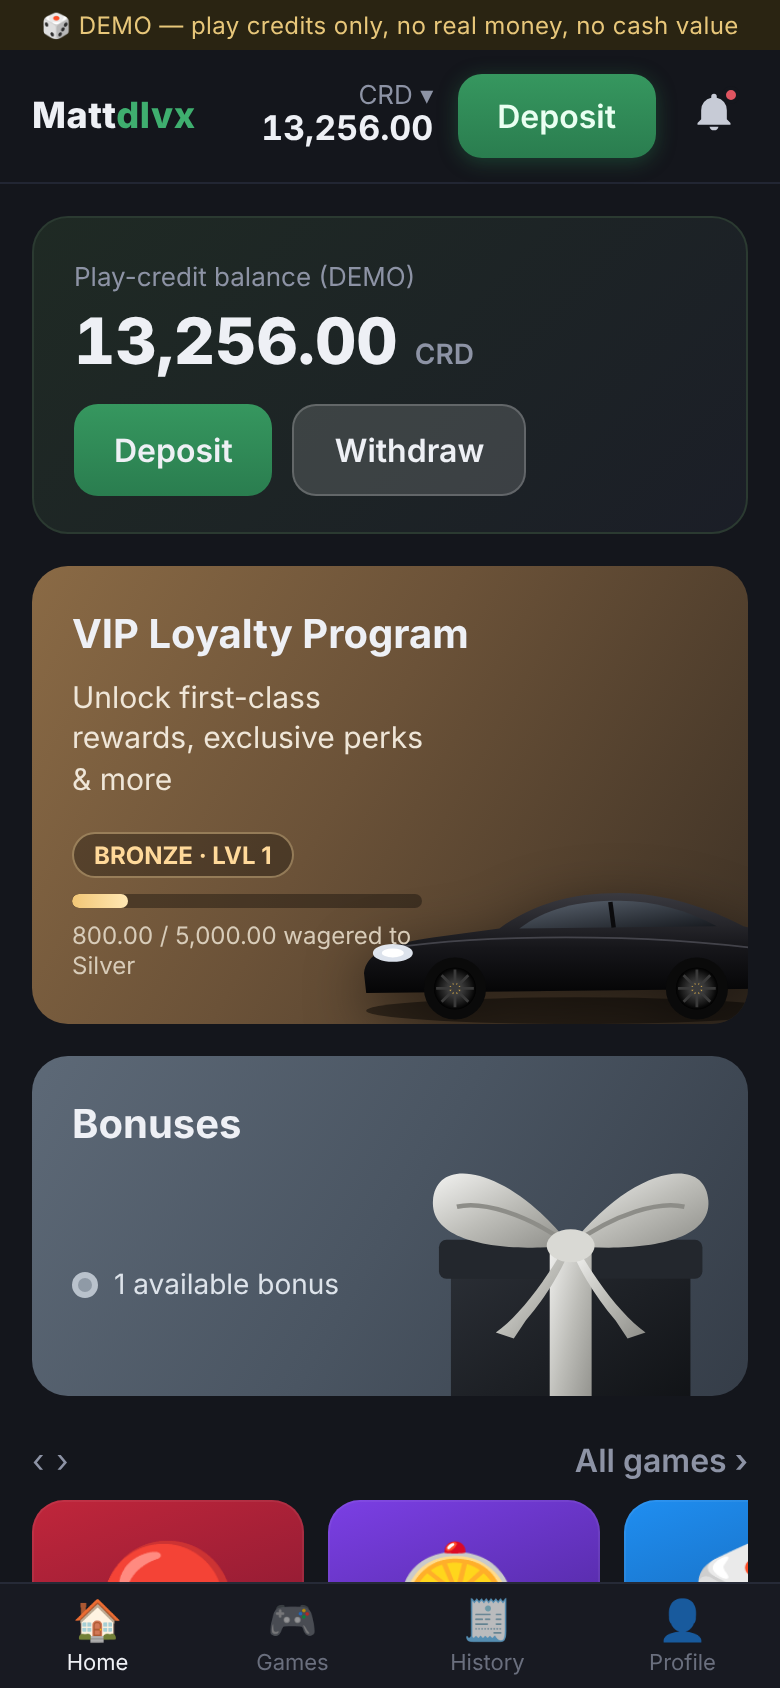
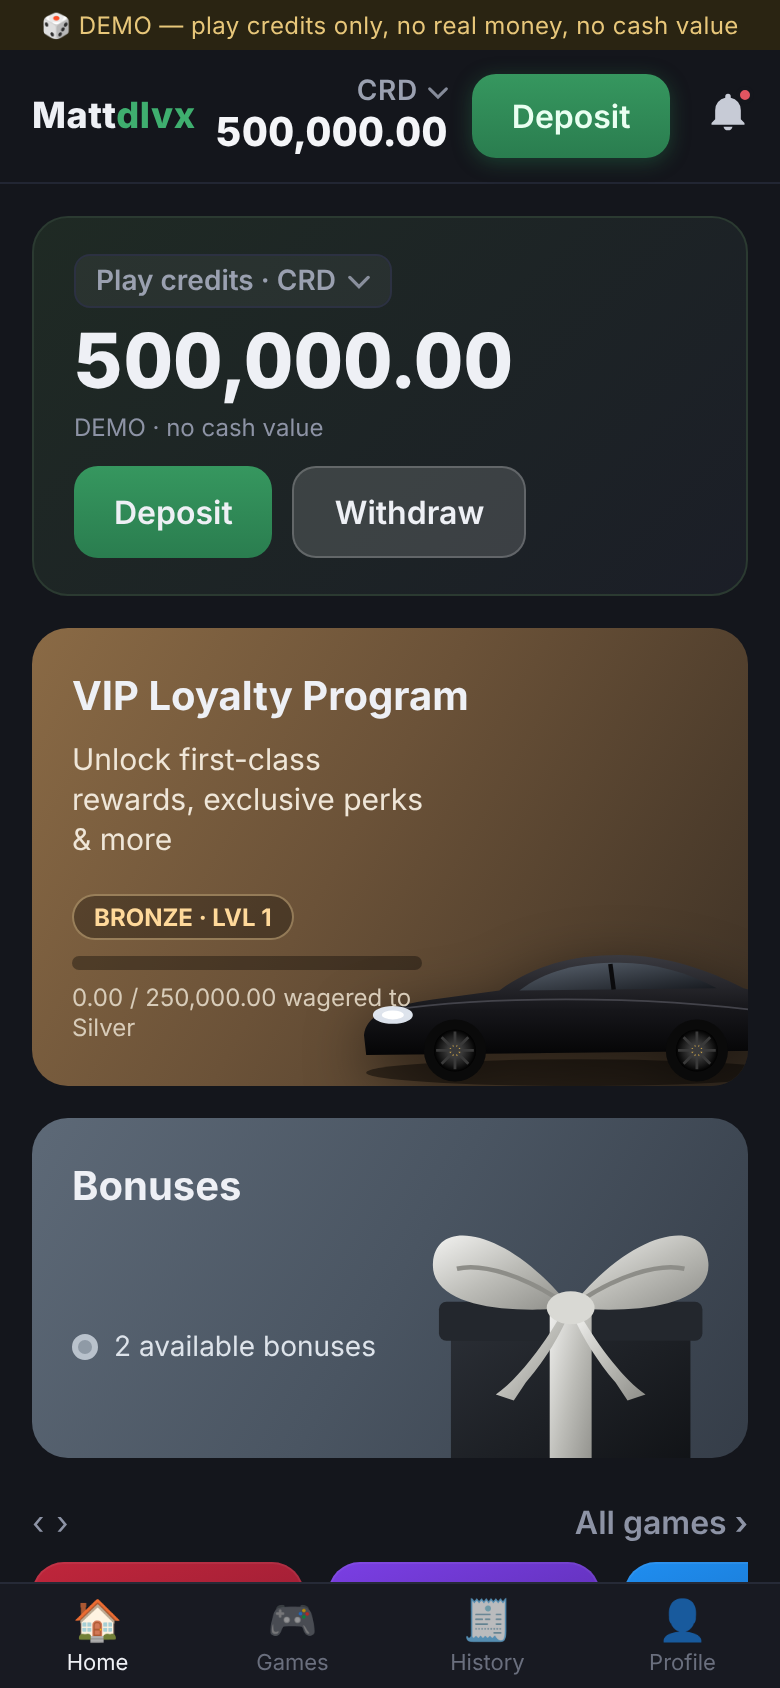
Start with 500,000 play credits, scale limits, restyle CRD balance display

diff --git a/app.js b/app.js
@@ -65,7 +65,7 @@ function authView() {
   let mode = 'signup';
   app.innerHTML = `<div class="auth">
     <h1>Matt<span>dlvx</span></h1>
-    <p class="sub">A play-money casino demo. New players get 10,000 free credits.<br>Credits have no cash value. Accounts are stored only in this browser.</p>
+    <p class="sub">A play-money casino demo. New players get 500,000 free play credits.<br>Credits have no cash value. Accounts are stored only in this browser.</p>
     <div class="panel">
       <div class="tabs"><button data-m="signup" class="on">Sign up</button><button data-m="login">Log in</button></div>
       <form id="authForm">
@@ -91,7 +91,7 @@ function homeView() {
   const v = me.vip;
   app.innerHTML = `
   <section class="balance-card">
-    <div><span class="muted">Play-credit balance (DEMO)</span><div class="big-bal">${fmt(me.balance)} <small>CRD</small></div></div>
+    <div><button class="cur-select" id="balCur" type="button">Play credits · CRD <svg class="caret" viewBox="0 0 12 8" width="11" height="8"><path d="M1 1.5l5 5 5-5" stroke="currentColor" stroke-width="1.8" fill="none" stroke-linecap="round"/></svg></button><div class="big-bal">${fmt(me.balance)}</div><div class="muted demo-note">DEMO · no cash value</div></div>
     <div class="bal-actions"><button class="btn btn-green" id="homeDeposit">Deposit</button><button class="btn btn-light" id="homeWithdraw">Withdraw</button></div>
   </section>
   <section class="card vip">
@@ -115,6 +115,7 @@ function homeView() {
   $('#bonusCard').onclick = openBonuses;
   $('#homeDeposit').onclick = openDeposit;
   $('#homeWithdraw').onclick = openWithdraw;
+  $('#balCur').onclick = () => toast('Play credits (CRD) only — no real currencies in this demo.');
   const c = $('#carousel');
   $('#cl').onclick = () => c.scrollBy({ left: -150, behavior: 'smooth' });
   $('#cr').onclick = () => c.scrollBy({ left: 150, behavior: 'smooth' });
@@ -137,9 +138,9 @@ async function openBonuses() {
 
 function openDeposit() {
   openModal(`<h2>Add play credits</h2>
-    <p class="muted">Free demo top-up — no payment, no real money. Limit: 5,000 credits per 24 hours. Remaining today: <b>${fmt(me.depositRemaining)}</b></p>
-    <div class="quick" style="margin-top:14px">${[500, 1000, 2500, 5000].map(a => `<button data-amt="${a}">+${a}</button>`).join('')}</div>
-    <label>Amount</label><input id="depAmt" type="number" min="1" value="1000">
+    <p class="muted">Free demo top-up — no payment, no real money. Limit: 250,000 credits per 24 hours. Remaining today: <b>${fmt(me.depositRemaining)}</b></p>
+    <div class="quick" style="margin-top:14px">${[25000, 50000, 100000, 250000].map(a => `<button data-amt="${a}">+${a / 1000}k</button>`).join('')}</div>
+    <label>Amount</label><input id="depAmt" type="number" min="1" value="50000">
     <button class="btn btn-green play-btn" id="depGo">Add credits</button><div class="err" id="depErr"></div>
     <button class="btn" data-close style="width:100%;margin-top:6px">Cancel</button>`);
   $('#modalCard').querySelectorAll('[data-amt]').forEach(b => b.onclick = () => $('#depAmt').value = b.dataset.amt);
@@ -153,7 +154,7 @@ function openWithdraw() {
   openModal(`<h2>Withdraw play credits</h2>
     <p class="muted">This only removes play credits from your demo balance. <b>Play credits have no cash value</b> — nothing is paid out and no payment details are ever needed.</p>
     <p style="margin-top:10px">Available: <b>${fmt(me.balance)} CRD</b></p>
-    <label>Amount (credits, min 1)</label><input id="wdAmt" type="number" min="1" step="1" value="${Math.min(100, Math.floor(me.balance))}">
+    <label>Amount (credits, min 1)</label><input id="wdAmt" type="number" min="1" step="1" value="${Math.min(1000, Math.floor(me.balance))}">
     <button class="btn btn-light play-btn" id="wdGo">Withdraw credits</button><div class="err" id="wdErr"></div>
     <button class="btn" data-close style="width:100%;margin-top:6px">Cancel</button>`);
   $('#wdGo').onclick = async () => {
@@ -166,7 +167,7 @@ function openWithdraw() {
 }
 
 function betControls(extra = '') {
-  return `<label>Bet amount (credits)</label><input id="betAmt" type="number" min="${config.minBet}" max="${config.maxBet}" step="1" value="10">
+  return `<label>Bet amount (credits)</label><input id="betAmt" type="number" min="${config.minBet}" max="${config.maxBet}" step="1" value="1000">
   <div class="quick"><button data-q="half">½</button><button data-q="double">2×</button><button data-q="min">Min</button><button data-q="max">Max</button></div>${extra}`;
 }
 function wireQuick() {
@@ -327,7 +328,7 @@ function profileView() {
       <div class="stat"><span>Net result</span><b class="${s.won - s.wagered >= 0 ? 'pos' : 'neg'}">${fmt(s.won - s.wagered)}</b></div>
     </div>
     <div class="panel"><b>VIP progress</b><div class="bar" style="background:#11131a"><i style="width:${(v.progress * 100).toFixed(1)}%"></i></div><p class="muted" style="margin-top:6px">${v.next ? `${fmt(v.nextAt - v.totalWagered)} more credits wagered to reach ${v.next}` : 'Top tier reached'}</p>
-    <p class="muted" style="margin-top:6px">Tiers: Bronze 0 · Silver 5k · Gold 25k · Platinum 100k · Diamond 500k</p></div>
+    <p class="muted" style="margin-top:6px">Tiers: Bronze 0 · Silver 250k · Gold 1.25M · Platinum 5M · Diamond 25M</p></div>
     <button class="btn" id="logout" style="width:100%;padding:14px">Log out</button>
     <p class="legal">Play-money demo. Credits are free, have no cash value and cannot be withdrawn.</p>`;
   $('#logout').onclick = async () => { await api('/logout', {}); me = null; location.hash = '#/login'; route(); };

diff --git a/style.css b/style.css
@@ -10,8 +10,8 @@ button{font:inherit;cursor:pointer;border:0;color:inherit;background:none}
 .logo{font-weight:800;font-size:18px;letter-spacing:.3px}.logo span{color:var(--green2)}
 .wallet{display:flex;align-items:center;gap:12px}
 .currency{display:flex;flex-direction:column;align-items:flex-end;line-height:1.15}
-.cur-label{font-size:13px;color:var(--muted)}
-.bal{font-weight:700;font-size:17px;font-variant-numeric:tabular-nums}
+.cur-label{display:inline-flex;align-items:center;gap:5px;font-size:14px;font-weight:600;color:#9aa0b0;letter-spacing:.3px}
+.bal{font-weight:800;font-size:20px;letter-spacing:.2px;font-variant-numeric:tabular-nums;color:#f4f5f8}
 .btn-deposit{background:linear-gradient(180deg,#36975f,#2a7d4f);padding:11px 20px;border-radius:12px;font-weight:600;color:#e9fff1;box-shadow:0 2px 10px rgba(46,139,87,.35)}
 .btn-deposit:active{transform:scale(.97)}
 .bell{position:relative;color:#c7cbd6;padding:6px}
@@ -88,3 +88,8 @@ canvas{width:100%;display:block;border-radius:12px;background:#0f1117}
 .balance-card{display:flex;justify-content:space-between;align-items:center;gap:12px;flex-wrap:wrap;background:linear-gradient(135deg,#1f2a24,#1b1e27);border:1px solid #2b3a31;border-radius:18px;padding:18px 20px;margin-bottom:16px}
 .big-bal{font-size:32px;font-weight:800;font-variant-numeric:tabular-nums;margin-top:4px}.big-bal small{font-size:14px;color:var(--muted);font-weight:600}
 .bal-actions{display:flex;gap:10px}.bal-actions .btn{padding:12px 20px}
+.cur-select{display:inline-flex;align-items:center;gap:6px;font-size:14px;font-weight:600;color:#9aa0b0;background:rgba(255,255,255,.05);border:1px solid #2c3142;border-radius:8px;padding:4px 10px}
+.caret{opacity:.85}
+.big-bal{font-size:38px;font-weight:800;letter-spacing:.3px;margin-top:8px;line-height:1.05}
+.demo-note{margin-top:4px;font-size:12px}
+@media(max-width:380px){.bal{font-size:17px}.big-bal{font-size:32px}}

diff --git a/local-api.js b/local-api.js
@@ -2,9 +2,9 @@
 // DEMO ONLY: passwords are salted SHA-256 hashed client-side, which is NOT real security.
 // Play credits have no cash value. No real money, payments or payouts exist anywhere.
 (function () {
-  const START_BALANCE = 10000, MIN_BET = 1, MAX_BET = 5000, DAILY_DEPOSIT_LIMIT = 5000;
-  const WELCOME_BONUS = 2500, DAILY_BONUS = 500, DAY = 24 * 3600 * 1000;
-  const TIERS = [{ name: 'Bronze', min: 0 }, { name: 'Silver', min: 5000 }, { name: 'Gold', min: 25000 }, { name: 'Platinum', min: 100000 }, { name: 'Diamond', min: 500000 }];
+  const START_BALANCE = 500000, MIN_BET = 1, MAX_BET = 250000, DAILY_DEPOSIT_LIMIT = 250000;
+  const WELCOME_BONUS = 125000, DAILY_BONUS = 25000, DAY = 24 * 3600 * 1000;
+  const TIERS = [{ name: 'Bronze', min: 0 }, { name: 'Silver', min: 250000 }, { name: 'Gold', min: 1250000 }, { name: 'Platinum', min: 5000000 }, { name: 'Diamond', min: 25000000 }];
   const USERS_KEY = 'mattdlvx_users_v1', SESSION_KEY = 'mattdlvx_session_v1';
   const round2 = (n) => Math.round(n * 100) / 100;
   const rnd = () => { const a = new Uint32Array(1); crypto.getRandomValues(a); return a[0] / 2 ** 32; };

diff --git a/index.html b/index.html
@@ -12,8 +12,8 @@
 <header id="topbar" class="topbar hidden">
   <a href="#/" class="logo">Matt<span>dlvx</span></a>
   <div class="wallet">
-    <button class="currency" id="currencyBtn" title="Play credits">
-      <span class="cur-label"><span id="curCode">CRD</span> ▾</span>
+    <button class="currency" id="currencyBtn" title="Play credits (CRD) — demo, no cash value">
+      <span class="cur-label"><span id="curCode">CRD</span> <svg class="caret" viewBox="0 0 12 8" width="10" height="7"><path d="M1 1.5l5 5 5-5" stroke="currentColor" stroke-width="1.8" fill="none" stroke-linecap="round"/></svg></span>
       <span class="bal" id="balance">0.00</span>
     </button>
     <button class="btn-deposit" id="depositBtn">Deposit</button>

diff --git a/README.md b/README.md
@@ -3,8 +3,8 @@
 A fully static (HTML/CSS/JS, no server) demo of the Mattdlvx casino dashboard. **Play credits only — no real money, no payments, no payouts. Credits have no cash value.**
 
 - Sign up / log in / log out stored in this browser's `localStorage`. Passwords are salted and hashed with SHA-256 (Web Crypto) client-side — fine for a demo, **not** real security. Accounts don't sync between devices or browsers.
-- Dashboard: big play-credit balance, Deposit (free credits, 5,000 per 24h), Withdraw (removes play credits only and logs "Withdrawal (play credits) — Completed (demo)"; never asks for payment details), VIP Loyalty card (tier by total wagered), Bonuses (welcome 2,500 once, daily 500), games carousel, notifications.
-- Games run in the browser with `crypto.getRandomValues`: Plinko (12 rows, low/medium/high risk), Slots (3 reels), Dice (over/under), Crash (auto cash-out). Min bet 1, max 5,000, can't exceed balance.
+- Dashboard: big play-credit balance, new accounts start with 500,000 play credits (CRD), Deposit (free credits, 250,000 per 24h), Withdraw (removes play credits only and logs "Withdrawal (play credits) — Completed (demo)"; never asks for payment details), VIP Loyalty card (tier by total wagered), Bonuses (welcome 125,000 once, daily 25,000), games carousel, notifications.
+- Games run in the browser with `crypto.getRandomValues`: Plinko (12 rows, low/medium/high risk), Slots (3 reels), Dice (over/under), Crash (auto cash-out). Min bet 1, max 250,000, can't exceed balance.
 - History (bets + transactions) and Profile pages; everything persists per user in localStorage.
 
 ## Run locally
